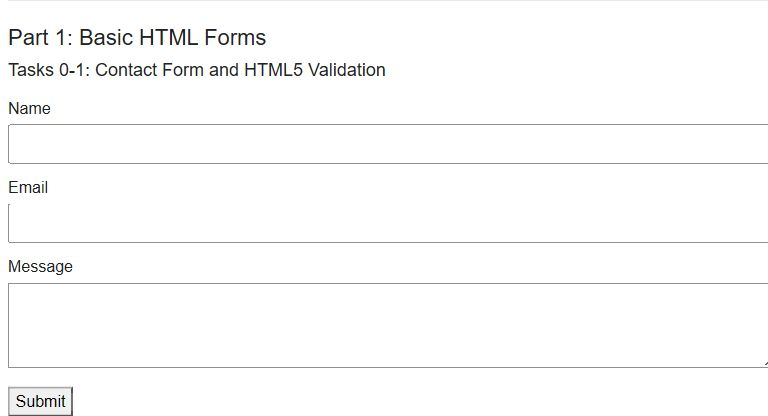
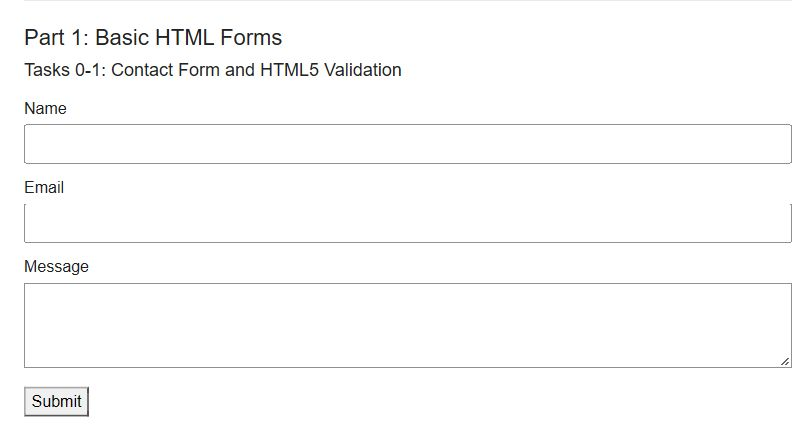
assignment4

diff --git a/index.html b/index.html
@@ -16,7 +16,7 @@
     <section id="part1">
       <h2>Part 1: Basic HTML Forms</h2>
       <h3>Tasks 0-1: Contact Form and HTML5 Validation</h3>
-      <form id="basic-form">
+      <form id="basic-form" method="dialog">
         <div class="basic-field">
           <label for="basic-name">Name</label>
           <input id="basic-name" name="name" type="text" maxlength="50" required>
@@ -30,14 +30,13 @@
           <textarea id="basic-message" name="message" rows="3" maxlength="500" required></textarea>
         </div>
         <button type="submit">Submit</button>
-        <p class="result" aria-live="polite"></p>
       </form>
     </section>
 
     <section id="part2">
       <h2>Part 2: Bootstrap Forms</h2>
       <h3>Tasks 2-3: Styled Contact Form and Feedback</h3>
-      <form id="contact-form" class="bootstrap-form" novalidate>
+      <form id="contact-form" class="was-validated" method="dialog">
         <div class="row g-3">
           <div class="col-12 col-md-6">
             <label for="contact-name" class="form-label">Name</label>
@@ -63,14 +62,29 @@
             <button type="submit" class="btn btn-secondary">Submit</button>
           </div>
         </div>
-        <p class="result" aria-live="polite"></p>
       </form>
+      <div id="class-examples" class="mt-4">
+        <h3>Task 3: Bootstrap Class Examples</h3>
+        <p>These two read-only examples show fixed styles. Use the form above to test your own input.</p>
+        <div class="row g-3">
+          <div class="col-12 col-md-6">
+            <label for="valid-example" class="form-label">is-valid example</label>
+            <input id="valid-example" type="email" class="form-control is-valid" value="student@example.com" aria-describedby="valid-example-feedback" readonly>
+            <div id="valid-example-feedback" class="valid-feedback">Looks good.</div>
+          </div>
+          <div class="col-12 col-md-6">
+            <label for="invalid-example" class="form-label">is-invalid example</label>
+            <input id="invalid-example" type="email" class="form-control is-invalid" value="wrong-email" aria-describedby="invalid-example-feedback" readonly>
+            <div id="invalid-example-feedback" class="invalid-feedback">Enter a valid email address.</div>
+          </div>
+        </div>
+      </div>
     </section>
 
     <section id="part3">
       <h2>Part 3: Advanced Form Project</h2>
       <h3>Task 4: Registration Form</h3>
-      <form id="registration-form" class="bootstrap-form" novalidate>
+      <form id="registration-form" class="was-validated" method="dialog">
         <div class="row g-3">
           <div class="col-12 col-md-6">
             <label for="first-name" class="form-label">First Name</label>
@@ -99,9 +113,10 @@
           </div>
           <div class="col-12 col-md-6">
             <label for="confirm-password" class="form-label">Confirm Password</label>
-            <input id="confirm-password" name="confirm-password" type="password" class="form-control" autocomplete="new-password" required>
-            <div class="valid-feedback">Passwords match.</div>
-            <div class="invalid-feedback">Repeat the same password.</div>
+            <input id="confirm-password" name="confirm-password" type="password" class="form-control" minlength="8" autocomplete="new-password" aria-describedby="confirm-help" required>
+            <div class="valid-feedback">At least 8 characters entered.</div>
+            <div class="invalid-feedback">Enter at least 8 characters.</div>
+            <div id="confirm-help" class="form-text">Only the length is checked, not whether passwords match.</div>
           </div>
           <fieldset class="col-12 col-md-6">
             <legend class="form-label fs-6">Gender</legend>
@@ -148,10 +163,8 @@
             <button type="reset" class="btn btn-outline-secondary ms-2">Reset</button>
           </div>
         </div>
-        <p class="result" aria-live="polite"></p>
       </form>
     </section>
   </main>
-  <script src="js/validation.js"></script>
 </body>
 </html>

diff --git a/css/style.css b/css/style.css
@@ -33,7 +33,3 @@ section {
   width: 100%;
   padding: 6px;
 }
-
-.result {
-  margin: 12px 0 0;
-}

diff --git a/README.md b/README.md
@@ -4,7 +4,9 @@ Name: Yerali Karkinbayev
 
 Group: IT-2501
 
-This page have three forms. Open "index.html" in a browser, it works without internet. Nothing is sent or saved, this is just for checking the fields.
+This page have three forms. Open "index.html" in a browser, it works without internet. It uses HTML, CSS and Bootstrap CSS, no JavaScript.
+
+Submit runs the browser checks. The forms use method="dialog" without a dialog window, so they stay on the page and do not send a request. No messages or accounts are created.
 
 ## Part 1: Basic HTML Forms
 
@@ -12,13 +14,13 @@ This page have three forms. Open "index.html" in a browser, it works without int
 
 ![Contact form](screenshots/task0.jpg)
 
-A simple form with Name, Email, Message and a Submit button. Each label is connected to its field using for and id.
+Name, Email, Message and a Submit button. Each label uses the same for value as its field's id.
 
 ### Task 1: Browser Validation
 
 ![Wrong email](screenshots/task1.jpg)
 
-I added required to all three fields and type="email" to Email. Name can have up to 50 characters, Email 100 and Message 500. If a field is empty or the email is wrong, the browser stops the form.
+All three fields are required. Email uses type="email". The maximum lengths are 50 for Name, 100 for Email and 500 for Message. Empty fields and wrong emails are blocked by the browser.
 
 ## Part 2: Bootstrap Forms
 
@@ -26,7 +28,13 @@ I added required to all three fields and type="email" to Email. Name can have up
 
 ![Bootstrap contact form](screenshots/task2.jpg)
 
-Here I used Bootstrap Grid to arrange the fields. The labels use form-label, the fields use form-control and the button uses btn. I also added placeholders and short hints with form-text.
+I used Bootstrap Grid, form-label, form-control, form-text and btn. Name and Email are side by side from 768px, and stacked on a phone. The fields also have placeholders and short hints.
+
+### Task 3: Bootstrap Class Examples
+
+![Bootstrap class examples](screenshots/task3-classes.jpg)
+
+These two read-only fields show is-valid and is-invalid. They are fixed examples of the classes, not checks of user input.
 
 ### Task 3: Wrong Input
 
@@ -36,7 +44,7 @@ Here I used Bootstrap Grid to arrange the fields. The labels use form-label, the
 
 ![Contact form filled correctly](screenshots/task3-valid.jpg)
 
-After clicking Submit, JavaScript adds is-valid or is-invalid to the fields. If I fix the input, the colour and message change too.
+The working form uses was-validated. Bootstrap CSS reads the browser's valid and invalid states, so colours and feedback change with the input. Empty required fields are red from the start.
 
 ## Part 3: Advanced Form Project
 
@@ -52,12 +60,13 @@ After clicking Submit, JavaScript adds is-valid or is-invalid to the fields. If 
 
 ![Registration on a phone](screenshots/task4-mobile.jpg)
 
-This form has first and last name, email, password, confirm password, gender, hobbies and country. The password needs at least 8 characters and both passwords must be the same. Hobbies are optional, so more than one can be selected or none. Reset clear the fields and removes the validation colours and messages.
+The form has first and last name, email, password, confirm password, gender, hobbies and country. Both password fields are required and need at least 8 characters. Their values are not compared. Hobbies are optional and allow several choices.
+
+Reset clear the fields and selections. The form returns to its starting state, where empty required fields are red.
 
 ## Work Process
 
-First I made the forms in HTML. Then I used Bootstrap for the last two forms and added the checks in "js/validation.js". I tried empty fields, wrong emails, length limits and different passwords, then checked correct input and Reset. I checked the page at 320px, 768px and 1280px for phone, tablet and computer. The screenshots above are from these forms.
-
+First I made the fields and labels in HTML, then used Bootstrap to arrange the last two forms. I checked empty fields, email format, length limits, radio buttons, checkboxes, country and Reset. I also checked the layout at 320px, 768px and 1280px. The screenshots are from the finished page.
 
 <!--
 Bootstrap v5.3.8 (https://getbootstrap.com/)
